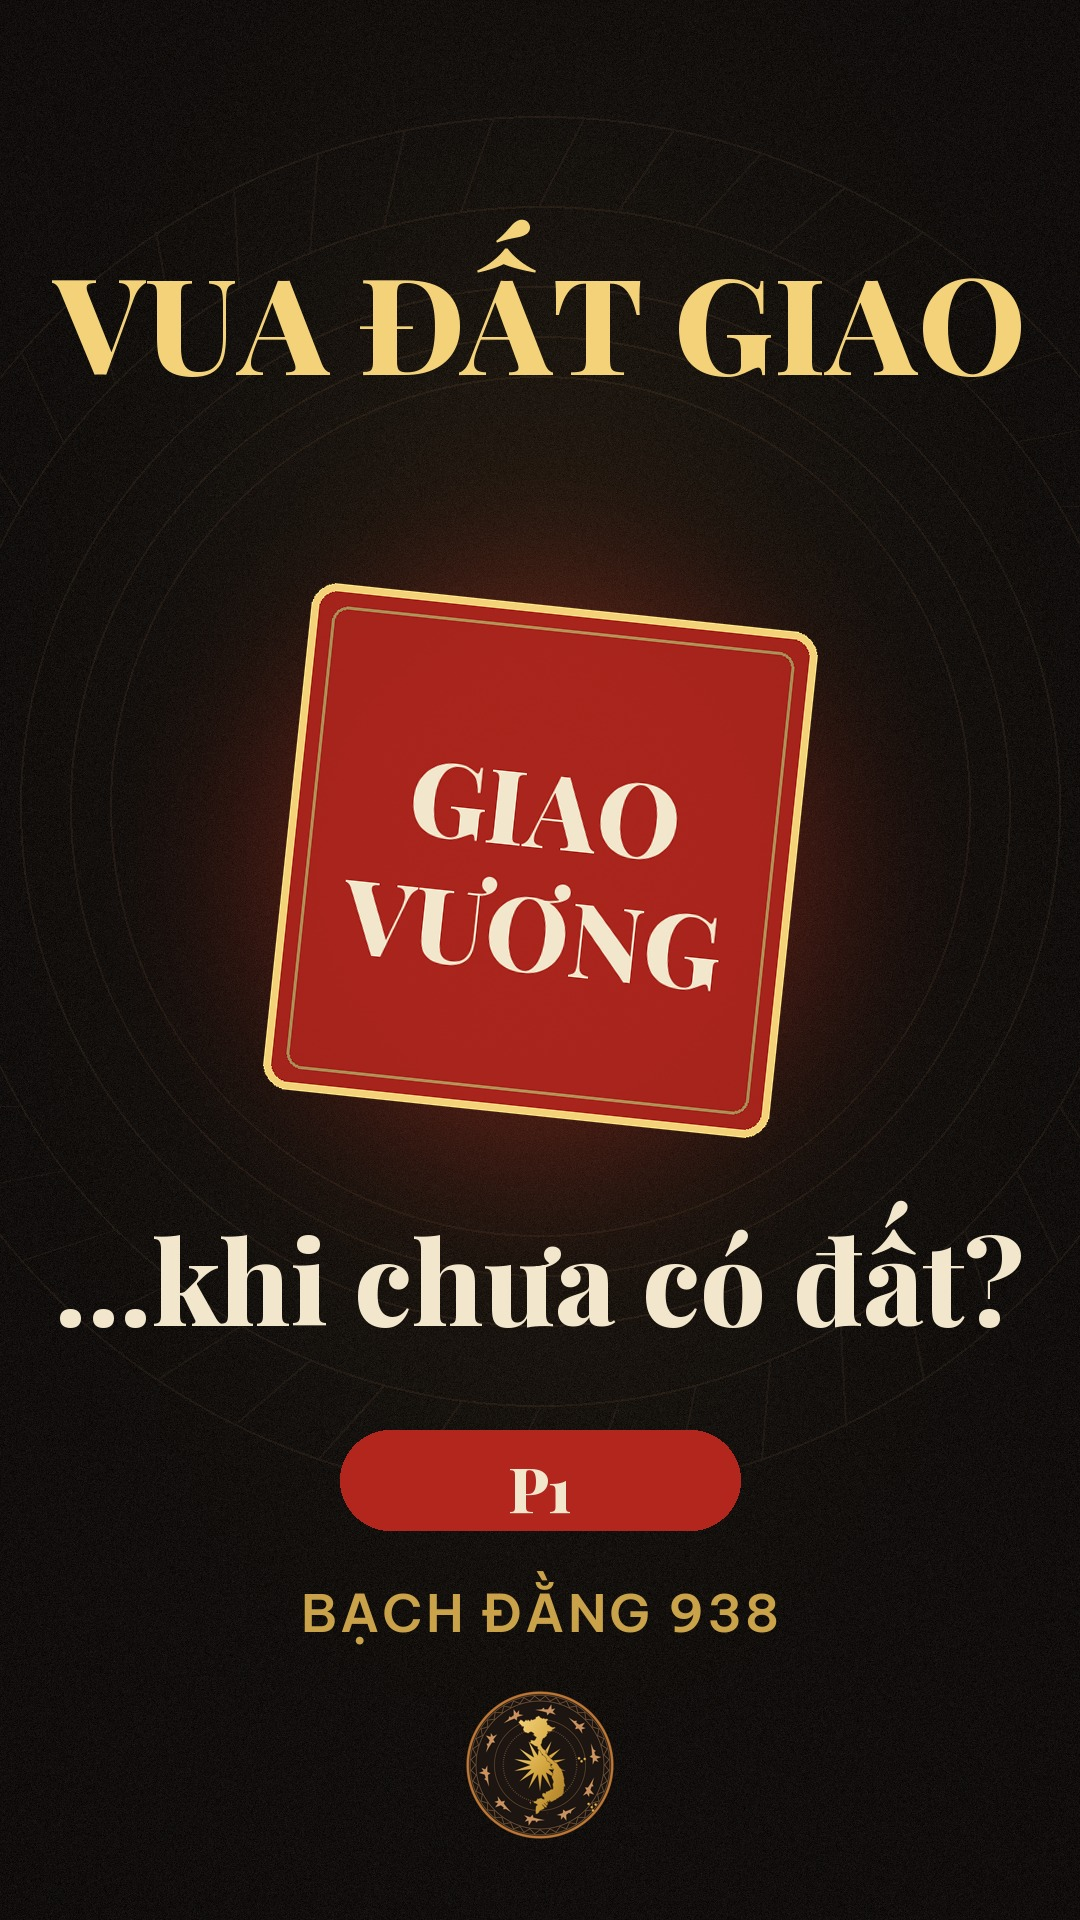
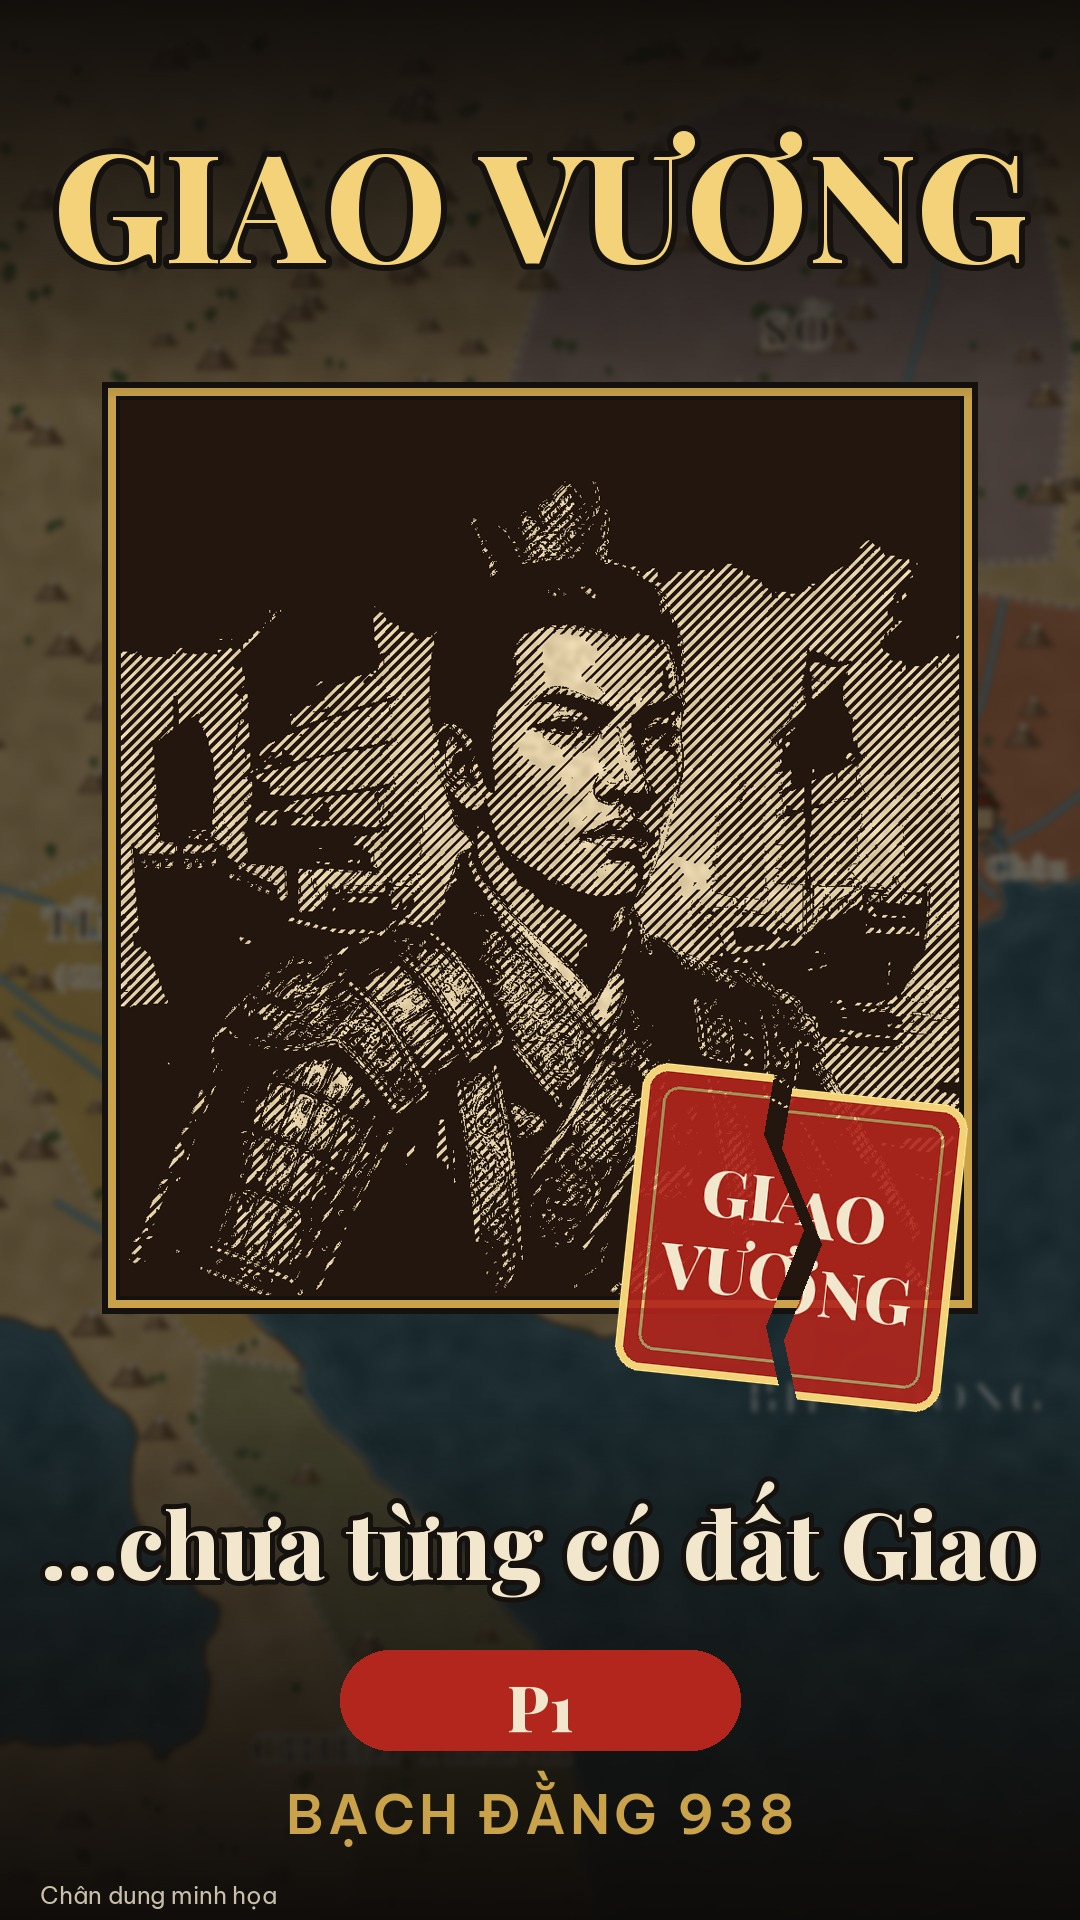
Chốt thumbnail kiểu bản khắc cổ; thêm bộ lọc khac.py
Claude-Session: https://claude.ai/code/session_012GwE9EDzcKDfG3GYy7Bpqd

diff --git a/scripts/khoi/khac.py b/scripts/khoi/khac.py
@@ -1,0 +1,25 @@
+"""Bộ lọc 'bản khắc cổ' – phong cách thumbnail đã chốt (15/11/2026).
+Biến ảnh chân dung AI thành nét mực gạch chéo trên giấy dó, bớt vẻ 'ảnh AI'.
+python3 scripts/khoi/khac.py <ảnh vào> <ảnh ra>
+"""
+import sys
+import numpy as np
+from PIL import Image, ImageFilter, ImageOps
+
+def paper(w, h, base=(226, 206, 166), seed=3):
+    rng = np.random.default_rng(seed)
+    n = rng.random((h // 6 + 1, w // 6 + 1))
+    t = Image.fromarray((n * 255).astype('uint8')).resize((w, h), Image.BICUBIC).filter(ImageFilter.GaussianBlur(3))
+    a = np.asarray(t) / 255.
+    return Image.fromarray(np.clip(np.array(base)[None, None, :] + (a[..., None] - 0.5) * 40, 0, 255).astype('uint8'))
+
+def woodcut(p, ink=(34, 22, 14)):
+    g = ImageOps.autocontrast(p.convert('L')).filter(ImageFilter.SMOOTH_MORE)
+    a = np.asarray(g) / 255.; h, w = a.shape; yy, xx = np.mgrid[0:h, 0:w]
+    hatch = np.sin((xx + yy) * 0.55) * 0.5 + 0.5          # nét gạch chéo
+    m = (a < 0.28) | ((a < 0.62) & (hatch > a * 1.35)) | (np.asarray(g.filter(ImageFilter.FIND_EDGES)) > 38)
+    out = np.where(m[..., None], np.array(ink), np.asarray(paper(w, h)).astype(float))
+    return Image.fromarray(out.astype('uint8'))
+
+if __name__ == '__main__':
+    woodcut(Image.open(sys.argv[1]).convert('RGB')).save(sys.argv[2]); print('OK', sys.argv[2])

diff --git a/CLAUDE.md b/CLAUDE.md
@@ -46,6 +46,7 @@ Xem `docs/plan/series-nguoc-dong.md`: **38 mốc** lùi từ 1976 về Văn Lang
 ## 6. Trạng thái
 - **Short #1 – Bạch Đằng 938:** `docs/shorts/01-bach-dang-938.md` **bản 2** (viết lại từ kho, đã qua kiểm chứng kịch bản). Kho: **`kb/E2-bach-dang-938.md` ✅** (hồ sơ mẫu đầu tiên, 15/11/2026). Giọng và bản dựng cũ trong `assets/short1/` làm theo bản 1, **cần tạo lại giọng Vbee**. "Lùi tiếp: năm 544" chờ hồ sơ E3.
 - **Video dài E2 – Bạch Đằng 938:** `docs/videos/E2-bach-dang-938.md` (12 khối ≈ 13–14 phút, mỗi khối cắt được Short; đã qua kiểm chứng: **Đạt**). Kho dùng: `kb/E2-…` + `kb/E2b-boi-canh-905-937.md`. Khối 12 phần "Lùi tiếp: 544" ⏳ chờ hồ sơ E3.
+- **THUMBNAIL: kiểu "bản khắc cổ"** (chủ kênh chốt 15/11): chân dung AI qua bộ lọc nét mực gạch chéo trên giấy dó (`scripts/khoi/khac.py`) + nền bản đồ tối + chữ lớn + nhãn Pn đỏ + "BẠCH ĐẰNG 938". P1: `assets/e2/thumb-P1.jpg`. Tránh để nguyên ảnh AI (mất thiện cảm).
 - **PHONG CÁCH MẶC ĐỊNH: bản đồ hoạt họa chi tiết** (`scripts/khoi/scenes_map2.py`, chủ kênh chốt 15/11): vùng tô màu + dải phân cách, sông, núi, thành, cờ tướng có khung chân dung (`assets/portraits/`), nhiều nhịp hình mỗi câu; khối chỉ 2–3 sự việc (luật "ít mà sâu").
 - **Short khối 1 bản 3 (ít mà sâu):** `assets/e2/E2-K1-bando-v2.mp4` (81,8s, giọng Vbee đã cắt câu quảng cáo "Giọng đọc nhân tạo từ vbee.vn" chen trước câu cuối). Lần thu sau sửa 2 câu theo kiểm chứng: "rồi đổi" → "tức đất Giao Châu… và đổi"; câu Trần Trọng Kim (xem docs/videos).
 - (Cũ) **Short khối 1 bản 2, 2 phong cách để so sánh:** `assets/e2/E2-K1-slide.mp4` (chữ & đồ họa) và `assets/e2/E2-K1-bando.mp4` (bản đồ hoạt họa, `--style map`), 61s, đã cắt đuôi "vbee.vn" (`vbee_trim_end`), **chưa nhạc**. Thumbnail `assets/e2/thumb-P1.jpg`; tiêu đề P1–P12: `docs/videos/E2-tieu-de-thumbnail.md`. Dựng bằng `scripts/khoi/render.py` + `scripts/khoi/e2_k1.json` (xem README; có chế độ `--vbee` tự cắt MP3 theo khoảng lặng). Lời cho Vbee: `assets/e2/E2-K1-loi-doc-vbee.txt`.
